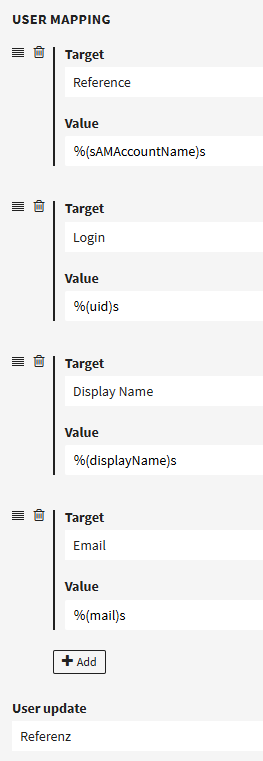
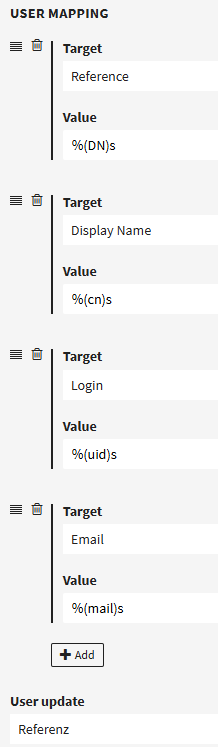
GITBOOK-377: adding to location manager

diff --git a/tutorials/ldap.md b/tutorials/ldap.md
@@ -57,7 +57,7 @@ To prevent this, we recommend to set **User Update** to **Referenz** and in **US
 
 ### USER MAPPING
 
-<figure><img src="../.gitbook/assets/image (1).png" alt=""><figcaption><p>tested example for ldap.forumsys.com</p></figcaption></figure>
+<figure><img src="../.gitbook/assets/image (1) (1).png" alt=""><figcaption><p>tested example for ldap.forumsys.com</p></figcaption></figure>
 
 **`+`**`Add`: Add another mapped Attribute. We suggest you have the same ones as shown above. At least **`Login`** and the one chosen in **User Update**.
 
@@ -98,7 +98,7 @@ If you do not see enough ldap-related log messages, check:
 We recommend to only configure group settings after the above settings are working to log in. Group settings are optional.\
 
 
-<figure><img src="../.gitbook/assets/image.png" alt=""><figcaption><p>example Group settings tested with ldap.forumsys.com</p></figcaption></figure>
+<figure><img src="../.gitbook/assets/image (1).png" alt=""><figcaption><p>example Group settings tested with ldap.forumsys.com</p></figcaption></figure>
 
 **Group Base DN**: Organizational Unit or whole organization, in which to search for groups. Above you can see what works with ldap.forumsys.com. A more typical example for a production environment:\
 `OU=groups,DC=example,DC=com` .

diff --git a/tutorials/pdf-creator.md b/tutorials/pdf-creator.md
@@ -12,7 +12,7 @@ The "PDF Creator" plugin is licensed as a separate module. Please check your lic
 
 1. Got to **Plugin-Manager** and if there is no **Server PDF Plugin** yet, press the **+** button at the bottom:
 
-![](<../.gitbook/assets/image (1) (1) (1) (1) (1).png>) (click to enlarge)
+![](<../.gitbook/assets/image (1) (1) (1) (1) (1) (1).png>) (click to enlarge)
 
 2. Choose type "**url"** and paste the URL of the latest release zip: \
    [https://github.com/programmfabrik/fylr-plugin-server-pdf/releases/latest/download/fylr-plugin-server-pdf.zip](https://github.com/programmfabrik/fylr-plugin-server-pdf/releases/latest/download/fylr-plugin-server-pdf.zip)
@@ -22,7 +22,7 @@ The "PDF Creator" plugin is licensed as a separate module. Please check your lic
 
 4. Go to **Rights Management** (the 3 people icon, _NOT_ the gear cogs icon) - **Object Types** - choose one object type - go to the tab named **PDF Creator** (see screenshot)
 
-&#x20;![](<../.gitbook/assets/image (1) (1) (1) (1) (1) (1).png>) (click to enlarge)
+&#x20;![](<../.gitbook/assets/image (1) (1) (1) (1) (1) (1) (1).png>) (click to enlarge)
 
 5. Click the **+** button.
 6. Name your template.

diff --git a/for-administrators/location-manager.md b/for-administrators/location-manager.md
@@ -18,6 +18,8 @@ This configures in which locations _new_ files will be stored.&#x20;
 
 _Already existing_ files are still used in all locations, not only the default locations.
 
+<figure><img src="../.gitbook/assets/image.png" alt=""><figcaption></figcaption></figure>
+
 ## Details
 
 | OPTION            | DESCRIPTION                                                                                                                                  |

diff --git a/for-administrators/readme/README.md b/for-administrators/readme/README.md
@@ -7,7 +7,7 @@ description: >-
 
 # Base Configuration
 
-<figure><img src="../../.gitbook/assets/image (1) (1) (1) (1) (1) (1) (1).png" alt=""><figcaption></figcaption></figure>
+<figure><img src="../../.gitbook/assets/image (1) (1) (1) (1) (1) (1) (1) (1).png" alt=""><figcaption></figcaption></figure>
 
 ## Sections
 
